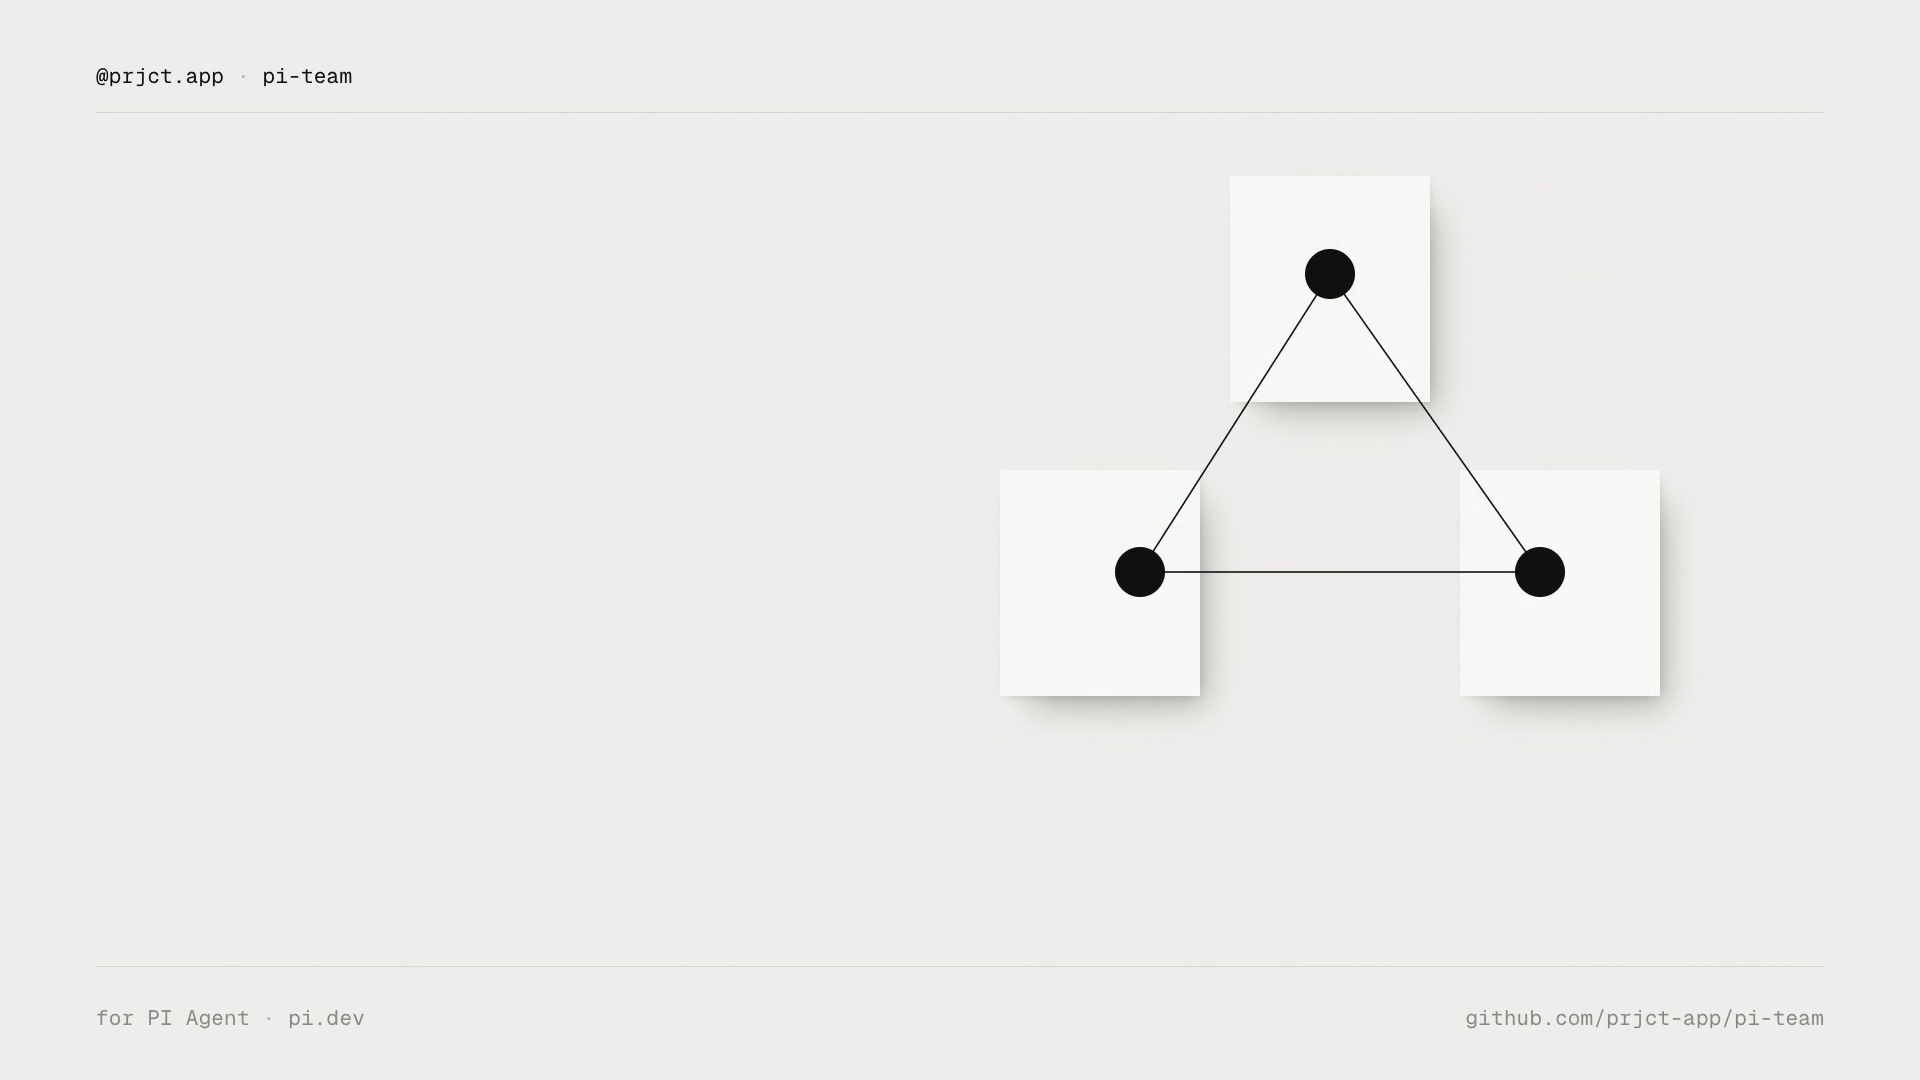
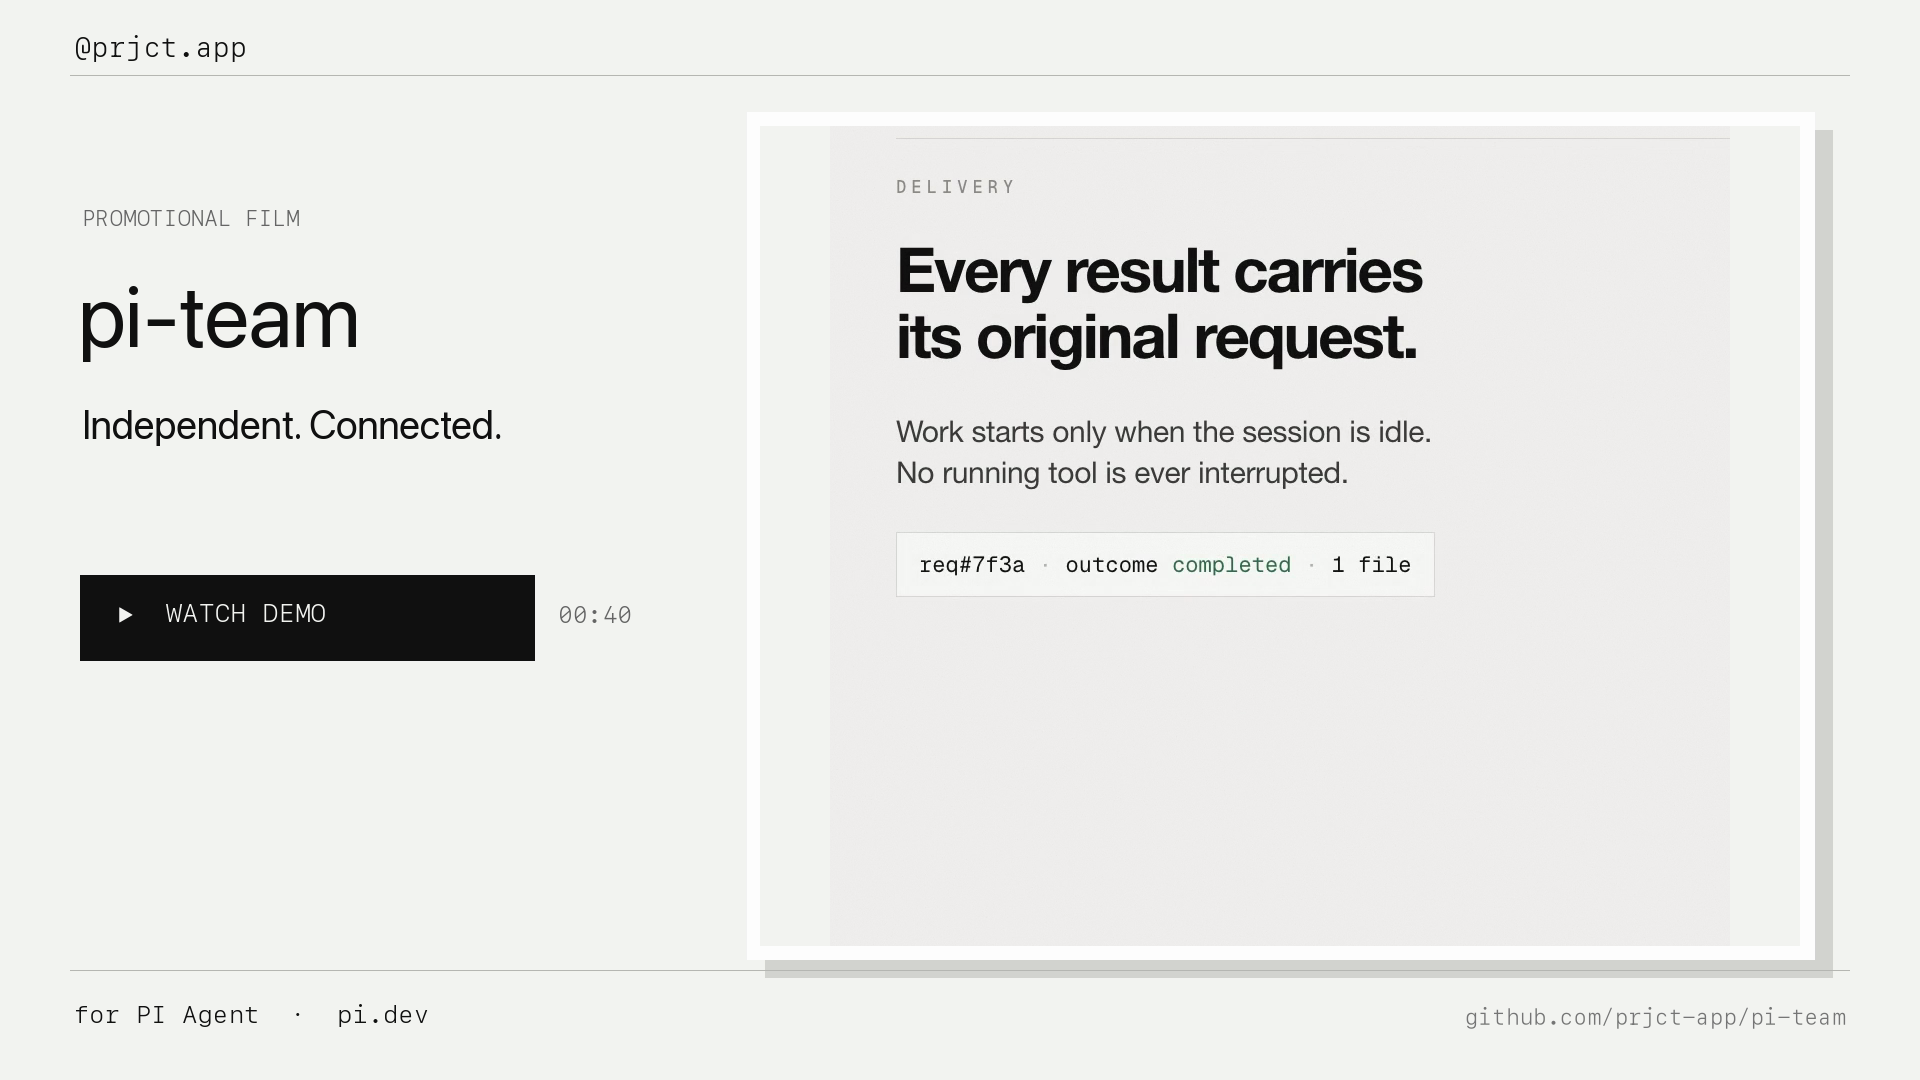
docs: fix demo cover

diff --git a/README.md b/README.md
@@ -9,7 +9,11 @@ You open the terminals; `pi-team` lets those sessions send each other work, wake
 free teammate, and return a result the requester can verify. Everything stays on
 this machine, in local files.
 
-[![Watch the pi-team demo](media/pi-team-demo/poster.png)](https://github.com/prjct-app/pi-team/raw/refs/heads/main/media/pi-team-demo/pi-team-demo.mp4)
+## Demo
+
+[![Watch the pi-team promotional demo](https://raw.githubusercontent.com/prjct-app/pi-team/main/media/pi-team-demo/poster.png)](https://github.com/prjct-app/pi-team/raw/refs/heads/main/media/pi-team-demo/pi-team-demo.mp4)
+
+[Watch or download the 40-second demo](https://github.com/prjct-app/pi-team/raw/refs/heads/main/media/pi-team-demo/pi-team-demo.mp4). It shows local session coordination, queued work, correlated results, and the human-controlled workflow in PI Agent.
 
 ## Install
 

diff --git a/media/pi-team-demo/README.md b/media/pi-team-demo/README.md
@@ -2,6 +2,8 @@
 
 This 40-second product film introduces pi-team for PI Agent developers. It uses the package's existing visual identity and shows the real workflow: session setup, concurrent local coordination, persistent requests, and correlated results.
 
+[![Watch the pi-team promotional demo](https://raw.githubusercontent.com/prjct-app/pi-team/main/media/pi-team-demo/poster.png)](https://github.com/prjct-app/pi-team/raw/refs/heads/main/media/pi-team-demo/pi-team-demo.mp4)
+
 [Watch or download the MP4](pi-team-demo.mp4)
 
 ## Media details
